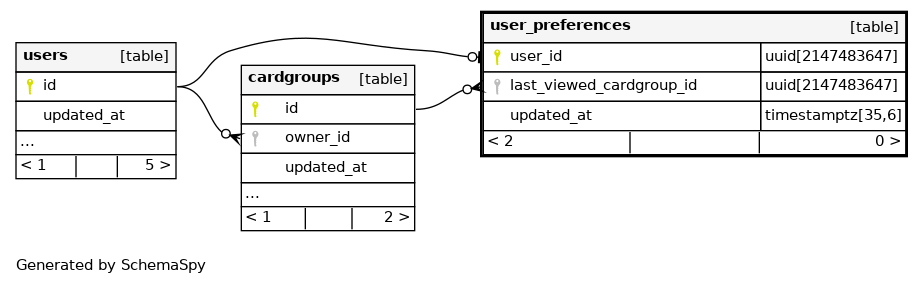
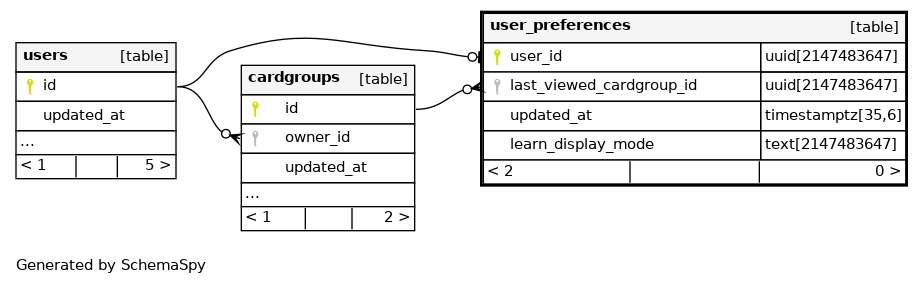
Deploying to gh-pages from @ yasuflatland-lf/flamingo-armond@e9f770750d3afe4c306117e18f5d53959e7cef9e 🚀

Changed region(s): [[0.5152, 0.4491, 1.0, 0.6737]]

diff --git a/er-chart/tables/user_preferences.html b/er-chart/tables/user_preferences.html
@@ -169,6 +169,23 @@
                                     </td>
                                     <td></td>
                                 </tr>
+                                <tr>
+                                    <td><span id="learn_display_mode">learn_display_mode</span></td>
+                                    <td>text</td>
+                                    <td>2147483647</td>
+                                    <td title=''></td>
+                                    <td title=''></td>
+                                    <td>&#39;flip_to_reveal&#39;::text</td>
+                                    <td>
+                                        <table border='0' cellspacing='0' cellpadding='0'>
+                                        </table>
+                                    </td>
+                                    <td>
+                                        <table border='0' cellspacing='0' cellpadding='0'>
+                                        </table>
+                                    </td>
+                                    <td></td>
+                                </tr>
                                 </tbody>
                             </table>
                         </div>
@@ -217,6 +234,38 @@
                     </div>
                     <div class="box box-primary">
                         <div class="box-header with-border">
+                            <i class="fa fa-sitemap"></i>
+                            <h3 class="box-title">Check Constraints</h3>
+                            <div class="box-tools pull-right">
+                                <button type="button" class="btn btn-box-tool" data-widget="collapse"><i class="fa fa-minus"></i></button>
+                                <button type="button" class="btn btn-box-tool" data-widget="remove"><i class="fa fa-times"></i></button>
+                            </div>
+                        </div>
+                        <div class="box-body">
+                            <table
+                                    id="check_table"
+                                    class="table table-bordered table-striped dataTable"
+                                    role="grid"
+                                    data-paging="true"
+                                    data-page-length="10"
+                                    data-length-change="false">
+                                <thead align='left'>
+                                <tr>
+                                    <th>Constraint Name</th>
+                                    <th>Constraint</th>
+                                </tr>
+                                </thead>
+                                <tbody>
+                                <tr>
+                                    <td>user_preferences_learn_display_mode_check</td>
+                                    <td>(learn_display_mode &#61; ANY (ARRAY[&#39;flip_to_reveal&#39;::text, &#39;always_visible&#39;::text]))</td>
+                                </tr>
+                                </tbody>
+                            </table>
+                        </div>
+                    </div>
+                    <div class="box box-primary">
+                        <div class="box-header with-border">
                             <i class="fa fa-code-fork"></i>
                             <h3 id="Relationships" class="box-title">Relationships</h3>
                             <div class="box-tools pull-right">
@@ -236,20 +285,20 @@
                                         <map id="oneDegreeRelationshipsDiagram" name="oneDegreeRelationshipsDiagram">
 <area shape="rect" id="node1" href="cardgroups.html" target="_top" title="cardgroups" alt="" coords="231,60,425,236">
 <area shape="rect" id="node2" href="users.html" target="_top" title="users" alt="" coords="5,37,187,184">
-<area shape="rect" id="node3" href="user_preferences.html" target="_top" title="user_preferences" alt="" coords="469,5,919,163">
+<area shape="rect" id="node3" href="user_preferences.html" target="_top" title="user_preferences" alt="" coords="469,5,919,192">
 </map>
                                         <a name='diagram'><img id="oneDegreeImg" src="../diagrams/tables/user_preferences.1degree.png" usemap="#oneDegreeRelationshipsDiagram" class="diagram" border="0" align="left"></a>
                                     </div>
                                     <div class="chart tab-pane " id="twodegreesDegreeImg-chart" style="position: relative; overflow-x:auto;">
                                         <map id="twoDegreesRelationshipsDiagram" name="twoDegreesRelationshipsDiagram">
-<area shape="rect" id="node1" href="cardgroups.html" target="_top" title="cardgroups" alt="" coords="417,190,612,278">
-<area shape="rect" id="node2" href="users.html" target="_top" title="users" alt="" coords="237,190,373,278">
-<area shape="rect" id="node8" title="auth.users" alt="" coords="5,187,193,275">
-<area shape="rect" id="node3" href="cards.html" target="_top" title="cards" alt="" coords="813,238,949,326">
-<area shape="rect" id="node4" href="swipe_records.html" target="_top" title="swipe_records" alt="" coords="1149,79,1372,167">
-<area shape="rect" id="node5" href="user_card_fsrs.html" target="_top" title="user_card_fsrs" alt="" coords="1149,272,1372,360">
-<area shape="rect" id="node6" href="user_preferences.html" target="_top" title="user_preferences" alt="" coords="656,63,1105,220">
-<area shape="rect" id="node7" href="user_roles.html" target="_top" title="user_roles" alt="" coords="423,379,607,467">
+<area shape="rect" id="node1" href="cardgroups.html" target="_top" title="cardgroups" alt="" coords="417,208,612,296">
+<area shape="rect" id="node2" href="users.html" target="_top" title="users" alt="" coords="237,208,373,296">
+<area shape="rect" id="node8" title="auth.users" alt="" coords="5,205,193,293">
+<area shape="rect" id="node3" href="cards.html" target="_top" title="cards" alt="" coords="813,271,949,359">
+<area shape="rect" id="node4" href="swipe_records.html" target="_top" title="swipe_records" alt="" coords="1149,97,1372,185">
+<area shape="rect" id="node5" href="user_card_fsrs.html" target="_top" title="user_card_fsrs" alt="" coords="1149,305,1372,393">
+<area shape="rect" id="node6" href="user_preferences.html" target="_top" title="user_preferences" alt="" coords="656,67,1105,253">
+<area shape="rect" id="node7" href="user_roles.html" target="_top" title="user_roles" alt="" coords="423,412,607,500">
 </map>
                                         <a name='diagram'><img id="twodegreesDegreeImg" src="../diagrams/tables/user_preferences.2degrees.png" usemap="#twoDegreesRelationshipsDiagram" class="diagram" border="0" align="left"></a>
                                     </div>

diff --git a/er-chart/relationships.html b/er-chart/relationships.html
@@ -98,12 +98,12 @@
 <area shape="rect" id="node8" href="tables/users.html" target="_top" title="users" alt="" coords="237,533,419,680">
 <area shape="rect" id="node3" href="tables/roles.html" target="_top" title="roles" alt="" coords="262,807,394,929">
 <area shape="rect" id="node4" href="tables/user_card_fsrs.html" target="_top" title="user_card_fsrs" alt="" coords="1044,659,1267,835">
-<area shape="rect" id="node10" href="tables/cards.html" target="_top" title="cards" alt="" coords="763,548,939,724">
+<area shape="rect" id="node9" href="tables/cards.html" target="_top" title="cards" alt="" coords="763,548,939,724">
 <area shape="rect" id="node5" href="tables/swipe_records.html" target="_top" title="swipe_records" alt="" coords="1044,321,1267,556">
 <area shape="rect" id="node6" href="tables/user_preferences.html" target="_top" title="user_preferences" alt="" coords="701,384,1000,531">
 <area shape="rect" id="node7" href="tables/master_cards.html" target="_top" title="master_cards" alt="" coords="572,5,825,181">
 <area shape="rect" id="node12" title="auth.users" alt="" coords="5,539,193,627">
-<area shape="rect" id="node9" href="tables/ping_records.html" target="_top" title="ping_records" alt="" coords="945,123,1155,240">
+<area shape="rect" id="node10" href="tables/ping_records.html" target="_top" title="ping_records" alt="" coords="945,123,1155,240">
 <area shape="rect" id="node11" href="tables/user_roles.html" target="_top" title="user_roles" alt="" coords="468,777,652,900">
 </map>
                                         <a name='diagram'><img id="compactDegreeImg" src="diagrams/summary/relationships.real.compact.png" usemap="#compactRelationshipsDiagram" class="diagram" border="0" align="left"></a>
@@ -111,17 +111,17 @@
                                     <div class="chart tab-pane " id="largeDegreeImg-chart" style="position: relative; overflow-x:auto;">
                                         <map id="largeRelationshipsDiagram" name="largeRelationshipsDiagram">
 <area shape="rect" id="node1" href="tables/master_cardgroups.html" target="_top" title="master_cardgroups" alt="" coords="5,35,277,509">
-<area shape="rect" id="node2" href="tables/cardgroups.html" target="_top" title="cardgroups" alt="" coords="463,905,657,1116">
-<area shape="rect" id="node8" href="tables/users.html" target="_top" title="users" alt="" coords="237,935,419,1204">
-<area shape="rect" id="node3" href="tables/roles.html" target="_top" title="roles" alt="" coords="262,1289,394,1412">
+<area shape="rect" id="node2" href="tables/cardgroups.html" target="_top" title="cardgroups" alt="" coords="463,899,657,1109">
+<area shape="rect" id="node8" href="tables/users.html" target="_top" title="users" alt="" coords="237,928,419,1197">
+<area shape="rect" id="node3" href="tables/roles.html" target="_top" title="roles" alt="" coords="262,1297,394,1420">
 <area shape="rect" id="node4" href="tables/user_card_fsrs.html" target="_top" title="user_card_fsrs" alt="" coords="1044,1184,1267,1629">
-<area shape="rect" id="node10" href="tables/cards.html" target="_top" title="cards" alt="" coords="763,937,939,1207">
-<area shape="rect" id="node5" href="tables/swipe_records.html" target="_top" title="swipe_records" alt="" coords="1044,663,1267,1167">
-<area shape="rect" id="node6" href="tables/user_preferences.html" target="_top" title="user_preferences" alt="" coords="701,768,1000,920">
+<area shape="rect" id="node9" href="tables/cards.html" target="_top" title="cards" alt="" coords="763,945,939,1215">
+<area shape="rect" id="node5" href="tables/swipe_records.html" target="_top" title="swipe_records" alt="" coords="1044,656,1267,1160">
+<area shape="rect" id="node6" href="tables/user_preferences.html" target="_top" title="user_preferences" alt="" coords="701,747,1000,928">
 <area shape="rect" id="node7" href="tables/master_cards.html" target="_top" title="master_cards" alt="" coords="321,5,575,275">
-<area shape="rect" id="node12" title="auth.users" alt="" coords="5,935,193,1057">
-<area shape="rect" id="node9" href="tables/ping_records.html" target="_top" title="ping_records" alt="" coords="725,357,935,509">
-<area shape="rect" id="node11" href="tables/user_roles.html" target="_top" title="user_roles" alt="" coords="468,1260,652,1383">
+<area shape="rect" id="node12" title="auth.users" alt="" coords="5,928,193,1051">
+<area shape="rect" id="node10" href="tables/ping_records.html" target="_top" title="ping_records" alt="" coords="725,357,935,509">
+<area shape="rect" id="node11" href="tables/user_roles.html" target="_top" title="user_roles" alt="" coords="468,1268,652,1391">
 </map>
                                         <a name='diagram'><img id="largeDegreeImg" src="diagrams/summary/relationships.real.large.png" usemap="#largeRelationshipsDiagram" class="diagram" border="0" align="left"></a>
                                     </div>

diff --git a/er-chart/index.html b/er-chart/index.html
@@ -78,7 +78,7 @@
                         <div class="col-md-12">
                             <div class="callout callout-info">
                                 <h4>SchemaSpy Analysis of armond.public</h4>
-                                <p>Generated on Sat Jun 13 03:32 UTC 2026</p>
+                                <p>Generated on Sat Jun 13 11:55 UTC 2026</p>
                             </div>
                         </div>
                     </div>
@@ -118,7 +118,7 @@
                                 <span class="info-box-icon bg-green"><span class="glyphicon glyphicon-list-alt" aria-hidden="true"></span></span>
                                 <div class="info-box-content">
                                     <span class="info-box-text">COLUMNS</span>
-                                    <span class="info-box-number">78</span>
+                                    <span class="info-box-number">79</span>
                                 </div>
                                 <!-- /.info-box-content -->
                             </div>
@@ -254,7 +254,7 @@
                                         <td class="detail"><a href="tables/user_preferences.html">user_preferences</a></td>
                                         <td class="detail" align="right">0</td>
                                         <td class="detail" align="right">2</td>
-                                        <td class="detail" align="right">3</td>
+                                        <td class="detail" align="right">4</td>
                                         <td class="detail" align="right">-1</td>
                                         <td class="detail" align="right">Table</td>
                                         <td class="comment detail" style="display: table-cell;"></td>
@@ -278,19 +278,19 @@
                                         <td class="comment detail" style="display: table-cell;"></td>
                                     </tr>
                                     <tr class="tbl even" valign="top">
-                                        <td class="detail"><a href="tables/ping_records.html">ping_records</a></td>
-                                        <td class="detail" align="right">0</td>
-                                        <td class="detail" align="right">0</td>
-                                        <td class="detail" align="right">3</td>
+                                        <td class="detail"><a href="tables/cards.html">cards</a></td>
+                                        <td class="detail" align="right">2</td>
+                                        <td class="detail" align="right">1</td>
+                                        <td class="detail" align="right">7</td>
                                         <td class="detail" align="right">-1</td>
                                         <td class="detail" align="right">Table</td>
                                         <td class="comment detail" style="display: table-cell;"></td>
                                     </tr>
                                     <tr class="tbl even" valign="top">
-                                        <td class="detail"><a href="tables/cards.html">cards</a></td>
-                                        <td class="detail" align="right">2</td>
-                                        <td class="detail" align="right">1</td>
-                                        <td class="detail" align="right">7</td>
+                                        <td class="detail"><a href="tables/ping_records.html">ping_records</a></td>
+                                        <td class="detail" align="right">0</td>
+                                        <td class="detail" align="right">0</td>
+                                        <td class="detail" align="right">3</td>
                                         <td class="detail" align="right">-1</td>
                                         <td class="detail" align="right">Table</td>
                                         <td class="comment detail" style="display: table-cell;"></td>

diff --git a/er-chart/tables/master_cardgroups.html b/er-chart/tables/master_cardgroups.html
@@ -428,12 +428,12 @@
                                 </thead>
                                 <tbody>
                                 <tr>
-                                    <td>master_cardgroups_name_length</td>
-                                    <td>((char_length(TRIM(BOTH FROM name)) &gt;&#61; 1) AND (char_length(TRIM(BOTH FROM name)) &lt;&#61; 100))</td>
-                                </tr>
-                                <tr>
                                     <td>master_cardgroups_status_values</td>
                                     <td>(status &#61; ANY (ARRAY[&#39;draft&#39;::text, &#39;published&#39;::text]))</td>
+                                </tr>
+                                <tr>
+                                    <td>master_cardgroups_name_length</td>
+                                    <td>((char_length(TRIM(BOTH FROM name)) &gt;&#61; 1) AND (char_length(TRIM(BOTH FROM name)) &lt;&#61; 100))</td>
                                 </tr>
                                 </tbody>
                             </table>

diff --git a/er-chart/tables/cards.html b/er-chart/tables/cards.html
@@ -319,12 +319,12 @@
                                 </thead>
                                 <tbody>
                                 <tr>
-                                    <td>cards_back_length</td>
-                                    <td>((char_length(TRIM(BOTH FROM back)) &gt;&#61; 1) AND (char_length(TRIM(BOTH FROM back)) &lt;&#61; 500))</td>
-                                </tr>
-                                <tr>
                                     <td>cards_front_length</td>
                                     <td>((char_length(TRIM(BOTH FROM front)) &gt;&#61; 1) AND (char_length(TRIM(BOTH FROM front)) &lt;&#61; 500))</td>
+                                </tr>
+                                <tr>
+                                    <td>cards_back_length</td>
+                                    <td>((char_length(TRIM(BOTH FROM back)) &gt;&#61; 1) AND (char_length(TRIM(BOTH FROM back)) &lt;&#61; 500))</td>
                                 </tr>
                                 </tbody>
                             </table>

diff --git a/er-chart/constraints.html b/er-chart/constraints.html
@@ -369,6 +369,11 @@
                                         <td>((rating &gt;&#61; 1) AND (rating &lt;&#61; 4))</td>
                                     </tr>
                                     <tr>
+                                        <td><a href='tables/user_preferences.html'>user_preferences</a></td>
+                                        <td>user_preferences_learn_display_mode_check</td>
+                                        <td>(learn_display_mode &#61; ANY (ARRAY[&#39;flip_to_reveal&#39;::text, &#39;always_visible&#39;::text]))</td>
+                                    </tr>
+                                    <tr>
                                         <td><a href='tables/master_cards.html'>master_cards</a></td>
                                         <td>master_cards_back_length</td>
                                         <td>((char_length(TRIM(BOTH FROM back)) &gt;&#61; 1) AND (char_length(TRIM(BOTH FROM back)) &lt;&#61; 500))</td>

diff --git a/er-chart/columns.html b/er-chart/columns.html
@@ -1077,6 +1077,20 @@
         "comments": ""
     },
     {
+        "tableName": "user_preferences",
+        "tableFileName": "user_preferences",
+        "tableType": "Table",
+        "keyClass": "",
+        "keyTitle": "",
+        "name": "learn_display_mode",
+        "type": "text",
+        "length": 2147483647,
+        "nullable": "",
+        "autoUpdated": "",
+        "defaultValue": "'flip_to_reveal'::text",
+        "comments": ""
+    },
+    {
         "tableName": "user_roles",
         "tableFileName": "user_roles",
         "tableType": "Table",
